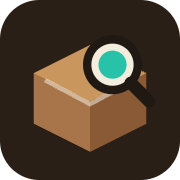
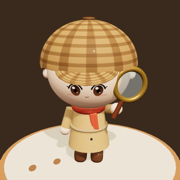
아이콘을 3D 피규어 꼬마 탐정(받침대 위)으로 교체, OG 이미지에 반영

diff --git a/web/js/characters.js b/web/js/characters.js
@@ -16,6 +16,7 @@ window.CHARS = (() => {
     seoa:   { name: '박서아', skin: 0xffe4d4, hair: 'bob', hairC: 0x7a4a32, body: 'hoodie', coatC: 0xeaa6bb, pantsC: 0x3b4a66, shoes: 'sneakers', extras: ['backpack'], eye: { iris: '#7a4a32', mood: 'smile', brow: 'soft' } },
     doyun:  { name: '이도윤', skin: 0xf3d3bb, hair: 'short', hairC: 0x1c1a1c, body: 'jacket', coatC: 0x30415e, pantsC: 0x3a3f4a, shoes: 'black', extras: [], eye: { iris: '#4a3a30', mood: 'calm', brow: 'firm' } },
     manager:{ name: '관리실 직원', skin: 0xf0cfb4, hair: 'cap', hairC: 0x2a2626, body: 'jacket', coatC: 0x4b5560, pantsC: 0x4a5058, shoes: 'black', extras: ['vest', 'toolbag'], eye: { iris: '#3a3030', mood: 'calm', brow: 'firm' } },
+    sleuth: { name: '탐정', skin: 0xffe1cc, hair: 'buzz', hairC: 0x6b4a32, body: 'trench', coatC: 0xd2ad74, pantsC: 0x4a3a30, shoes: 'boots', extras: ['scarf', 'deerstalker', 'magnifier'], scarfC: 0xc8553d, eye: { iris: '#5a3a26', mood: 'smile', brow: 'soft' } },
     grad1:  { name: '오세훈', skin: 0xf4d4bc, hair: 'short', hairC: 0x2a2224, body: 'hoodie', coatC: 0x5d7a5a, pantsC: 0x34383f, shoes: 'black', extras: ['glasses'], eye: { iris: '#4a3a30', mood: 'smile', brow: 'soft' } },
     grad2:  { name: '배지아', skin: 0xffe2cf, hair: 'bob', hairC: 0x3a2a24, body: 'jacket', coatC: 0xc9a46a, pantsC: 0x30343c, shoes: 'sneakers', extras: [], eye: { iris: '#6b4a3a', mood: 'smile', brow: 'soft' } },
   };
@@ -190,6 +191,24 @@ window.CHARS = (() => {
       const rim = mesh(new THREE.TorusGeometry(0.3, 0.07, 10, 28, Math.PI * 1.25), hm, 0, 0.02, 0.27); rim.rotation.set(-0.35, 0, -Math.PI / 8); head.add(rim);
       const shade = mesh(new THREE.SphereGeometry(0.345, 28, 16, Math.PI / 2 - 0.75, 1.5, 0, Math.PI * 0.6), new THREE.MeshBasicMaterial({ color: 0x0a0a0c, transparent: true, opacity: 0.72 })); shade.scale.set(1.07, 0.98, 1.02); head.add(shade);
       head.rotation.x = 0.28;
+    }
+    if (c.extras.includes('deerstalker')) {   // 탐정 모자 (체크무늬 사냥 모자)
+      const cv = document.createElement('canvas'); cv.width = cv.height = 128; const x = cv.getContext('2d');
+      x.fillStyle = '#b08a56'; x.fillRect(0, 0, 128, 128); x.fillStyle = 'rgba(90,60,30,.45)';
+      for (let i = 0; i < 128; i += 32) { x.fillRect(i, 0, 12, 128); x.fillRect(0, i, 128, 12); }
+      const tx = new THREE.CanvasTexture(cv); tx.wrapS = tx.wrapT = THREE.RepeatWrapping; tx.repeat.set(3, 2); tx.encoding = THREE.sRGBEncoding;
+      const hm = new THREE.MeshPhysicalMaterial({ map: tx, roughness: 0.7, clearcoat: 0.1 });
+      const crown = mesh(new THREE.SphereGeometry(0.385, 36, 20, 0, Math.PI * 2, 0, Math.PI * 0.5), hm, 0, 0.06, 0); crown.scale.set(1.08, 0.95, 1.05); head.add(crown);
+      [1, -1].forEach(z => { const b = mesh(new THREE.SphereGeometry(0.2, 20, 10, 0, Math.PI * 2, 0, Math.PI * 0.5), hm, 0, 0.07, z * 0.3); b.scale.set(1.2, 0.18, 1.1); b.rotation.x = z * 0.35; head.add(b); });
+      [-1, 1].forEach(sx => { const f = mesh(rbox(0.05, 0.2, 0.17, 0.04), hm, sx * 0.39, 0.02, 0); f.rotation.z = sx * 0.25; head.add(f); });
+      const bow = mesh(new THREE.TorusGeometry(0.04, 0.015, 8, 16), M(0x6b4a2a), 0, 0.43, 0); bow.rotation.x = Math.PI / 2; head.add(bow);
+    }
+    if (c.extras.includes('magnifier')) {   // 돋보기를 들어 올린 손
+      handR.rotation.set(-1.9, 0, 0.35);
+      const mg = new THREE.Group(); mg.position.set(0, -0.26, 0.02); mg.rotation.set(1.9, 0, -0.35); handR.add(mg);
+      mg.add(mesh(cyl(0.018, 0.022, 0.16, 12), M(0x6b3a1e, { r: 0.4 }), 0, -0.02, 0));
+      const ring = mesh(new THREE.TorusGeometry(0.13, 0.022, 12, 32), M(0xd8b04a, { m: 0.7, r: 0.25 }), 0, 0.2, 0); mg.add(ring);
+      const glass = mesh(new THREE.CircleGeometry(0.125, 32), new THREE.MeshPhysicalMaterial({ color: 0xbfe8ff, roughness: 0.05, transmission: 0, transparent: true, opacity: 0.45, clearcoat: 1 }), 0, 0.2, 0); glass.material.side = THREE.DoubleSide; mg.add(glass);
     }
     if (c.extras.includes('vest')) {   // 형광 점검 조끼 + 등판 글씨
       fig.add(mesh(cyl(0.15, 0.185, 0.25), M(0xc8f03c, { r: 0.55, cc: 0.1 }), 0, 0.38, 0));

diff --git a/web/index.html b/web/index.html
@@ -24,12 +24,12 @@
   <meta name="twitter:title" content="미니 추리 게임">
   <meta name="twitter:description" content="실마리를 찾아서 사건을 해결한다.">
   <meta name="twitter:image" content="https://fireflower0902.github.io/diorama-mystery/og.png">
-  <link rel="icon" href="icon.svg" type="image/svg+xml">
+  <link rel="icon" href="favicon.png" type="image/png">
   <link rel="apple-touch-icon" href="apple-touch-icon.png">
   <link rel="preconnect" href="https://fonts.googleapis.com">
   <link rel="preconnect" href="https://fonts.gstatic.com" crossorigin>
   <link rel="stylesheet" href="https://fonts.googleapis.com/css2?family=Gowun+Batang:wght@400;700&family=Nanum+Pen+Script&family=Gaegu:wght@400;700&display=swap">
-  <link rel="stylesheet" href="css/style.css?v=20261119223044">
+  <link rel="stylesheet" href="css/style.css?v=20261119231546">
 </head>
 <body>
   <header id="hdr"></header>
@@ -47,14 +47,14 @@
   <div id="tip"></div>
   <div id="fade"></div>
   <div id="rotate"><div class="rot">📱</div><b>휴대폰을 세로로 세워 주세요</b><p>이 게임은 세로 화면에 맞춰져 있습니다.</p></div>
-  <script src="vendor/three.min.js?v=20261119223044"></script>
-  <script src="js/cases.js?v=20261119223044"></script>
-  <script>document.write('<script src="cases/' + CASE_ID + '/data.js?v=20261119223044"><\/script><script src="cases/' + CASE_ID + '/content.js?v=20261119223044"><\/script>');</script>
-  <script src="js/scenes.js?v=20261119223044"></script>
-  <script src="js/voices.js?v=20261119223044"></script>
-  <script src="js/audio.js?v=20261119223044"></script>
-  <script src="js/characters.js?v=20261119223044"></script>
-  <script src="js/world.js?v=20261119223044"></script>
-  <script src="js/app.js?v=20261119223044"></script>
+  <script src="vendor/three.min.js?v=20261119231546"></script>
+  <script src="js/cases.js?v=20261119231546"></script>
+  <script>document.write('<script src="cases/' + CASE_ID + '/data.js?v=20261119231546"><\/script><script src="cases/' + CASE_ID + '/content.js?v=20261119231546"><\/script>');</script>
+  <script src="js/scenes.js?v=20261119231546"></script>
+  <script src="js/voices.js?v=20261119231546"></script>
+  <script src="js/audio.js?v=20261119231546"></script>
+  <script src="js/characters.js?v=20261119231546"></script>
+  <script src="js/world.js?v=20261119231546"></script>
+  <script src="js/app.js?v=20261119231546"></script>
 </body>
 </html>

diff --git a/web/css/style.css b/web/css/style.css
@@ -24,7 +24,7 @@ button { font: inherit; color: inherit; cursor: pointer; }
 .brand { display: flex; align-items: center; gap: 10px; min-width: 0; }
 .brand small { display: block; font-size: 10.5px; letter-spacing: 2px; color: var(--muted); }
 .brand b { display: block; font-family: var(--serif); font-size: 19px; font-weight: 700; color: var(--cream); white-space: nowrap; overflow: hidden; text-overflow: ellipsis; }
-.logo { width: 30px; height: 30px; flex: none; background: url(../icon.svg) center/contain no-repeat; border-radius: 8px; }
+.logo { width: 30px; height: 30px; flex: none; background: url(../icon.png) center/cover no-repeat; border-radius: 9px; }
 .logo.big { width: 64px; height: 64px; border-radius: 16px; display: inline-block; }
 .hstat { margin-left: auto; display: flex; align-items: center; gap: 6px; }
 .clock { font-family: var(--mono); font-size: 12px; color: var(--gold); background: rgba(0,0,0,.25); padding: 5px 9px; border-radius: 8px; white-space: nowrap; }
@@ -477,11 +477,11 @@ body.playing #dock { display: flex; }
 body.ogshot #hdr, body.ogshot #dock, body.ogshot #stageui, body.ogshot #overlay, body.ogshot #toasts { display: none !important; }
 body.ogshot #stage { margin: 0; border-radius: 0; box-shadow: none; }
 body.ogshot #overlay { display: none !important; }
-.ogcard { position: absolute; left: 0; right: 0; bottom: 0; z-index: 9; display: flex; align-items: center; gap: 22px; padding: 70px 56px 40px; background: linear-gradient(transparent, rgba(24,17,12,.92) 45%); }
+.ogcard { position: absolute; left: 0; right: 0; bottom: 0; z-index: 9; display: flex; align-items: center; gap: 34px; padding: 80px 56px 44px; background: linear-gradient(transparent, rgba(24,17,12,.92) 45%); }
 .ogcard small { display: block; font-size: 22px; letter-spacing: 6px; color: var(--gold); }
 .ogcard b { display: block; font-family: var(--serif); font-size: 72px; color: var(--cream); line-height: 1.1; }
 .ogcard p { margin: 6px 0 0; font-size: 24px; color: var(--muted); }
-.ogcard .logo.big { width: 110px; height: 110px; border-radius: 26px; }
+.ogcard .logo.big { width: 230px; height: 230px; border-radius: 48px; box-shadow: 0 10px 30px rgba(0,0,0,.5); }
 
 /* ───────── 사건 선택 화면 ───────── */
 .home { width: 100%; max-width: 980px; margin: 0 auto; padding: 8px 2px 28px; animation: fade .5s; }

diff --git a/web/js/world.js b/web/js/world.js
@@ -379,6 +379,15 @@ window.WORLD = (() => {
       root.add(new THREE.HemisphereLight(0xfff4e6, 0x8a7a6a, 0.85));
       const d = new THREE.DirectionalLight(0xffe8cc, 0.7); d.position.set(3, 7, 6); d.castShadow = true; root.add(d);
     },
+    /* 아이콘용: 둥근 원목 받침대 위의 작은 무대 */
+    pedestal() {
+      root.add(new THREE.Mesh(new THREE.CylinderGeometry(1.25, 1.32, 0.42, 48), M(0xa8744a, { r: 0.6 })).translateY(-0.21));
+      root.add(new THREE.Mesh(new THREE.CylinderGeometry(1.33, 1.33, 0.05, 48), M(0x7a5233, { r: 0.6 })).translateY(-0.44));
+      const top = new THREE.Mesh(new THREE.CylinderGeometry(1.18, 1.18, 0.02, 48), M(0xe9dcc4, { r: 0.8 })); top.position.y = 0.0; top.receiveShadow = true; root.add(top);
+      const fp = M(0x8a6242); [[-0.62, 0.55, 0.3], [-0.38, 0.3, 0.2], [0.55, 0.62, -0.3]].forEach(([x, z, r]) => { const f = new THREE.Mesh(new THREE.CircleGeometry(0.07, 12), fp); f.scale.set(0.7, 1.2, 1); f.rotation.set(-Math.PI / 2, 0, r); f.position.set(x, 0.015, z); root.add(f); });
+      root.add(new THREE.HemisphereLight(0xfff4e6, 0x6a5040, 0.85));
+      const d = new THREE.DirectionalLight(0xffe8cc, 0.95); d.position.set(2.5, 5, 4); d.castShadow = true; Object.assign(d.shadow.camera, { left: -2, right: 2, top: 2, bottom: -2 }); root.add(d);
+    },
     /* 프로필 사진용 단색 배경 */
     plain() {
       root.add(new THREE.HemisphereLight(0xffffff, 0xb0a090, 0.95));
